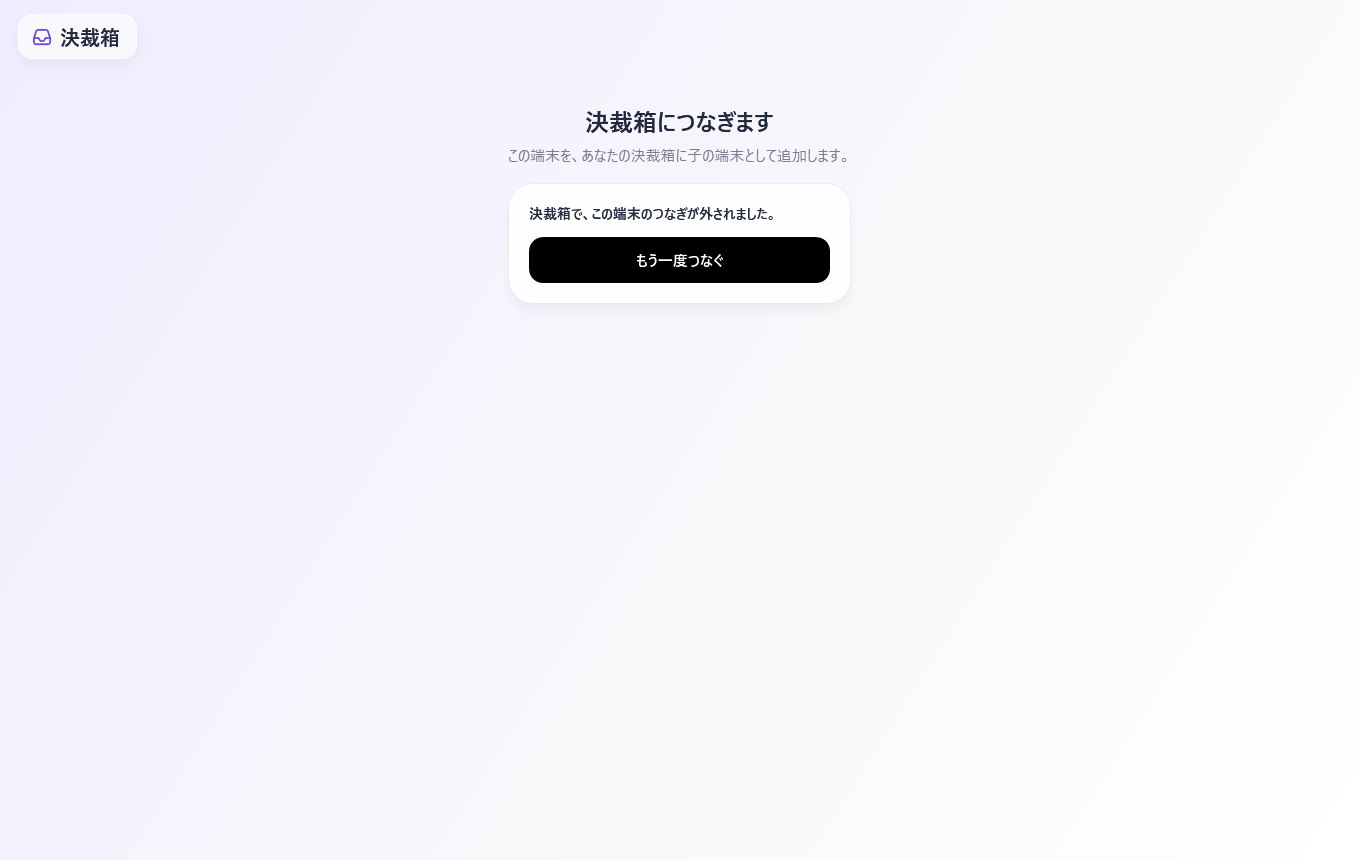
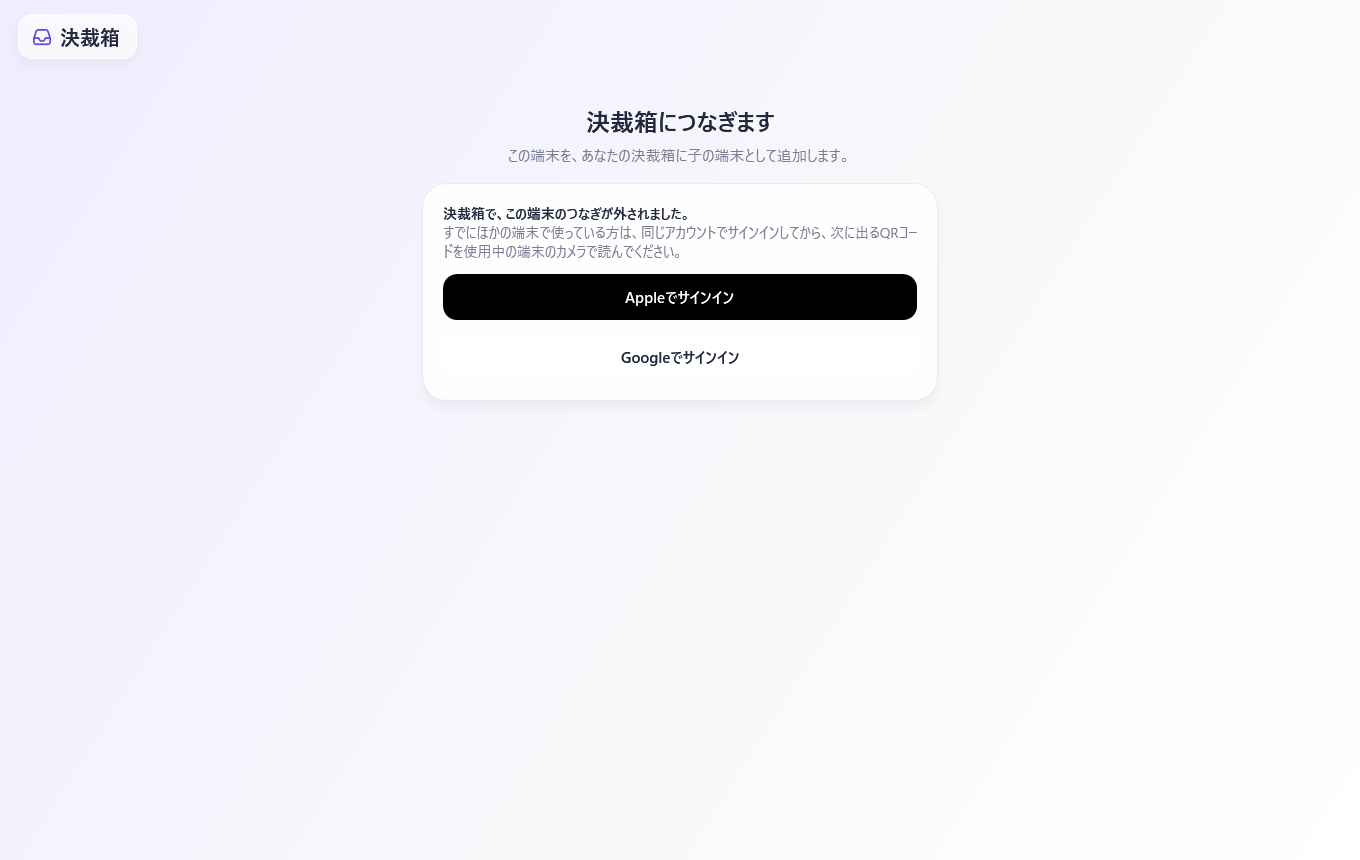
Child join: a device the parent removed starts clean (Apple/Google), per child-join.md #2555

Changed region(s): [[0.3088, 0.2419, 0.6794, 0.4233], [0.4324, 0.1209, 0.5559, 0.1512]]

diff --git a/windows/BellTeam.App/ChildJoin.cs b/windows/BellTeam.App/ChildJoin.cs
@@ -9,7 +9,7 @@ internal enum ChildJoinPhase { NotJoined, Waiting, Failed, Joined }
 
 /// <summary>
 /// The port of the 決裁箱 window's child join (child-join.md "The port"): the Approval Box component's joinState and its three calls, as the window needs them. The window never signs in or holds a credential itself.
-/// Join(provider) is requestJoin (the library signs in first when the child form keeps none; null = again, with the provider of the last try); CancelJoin and Leave are cancelJoin and leave.
+/// Join(provider) is requestJoin(provider) (apple | google; the library signs in on this device; null = 「もう一度つなぐ」 after a failure, with the provider of the last try, which the adapter keeps); CancelJoin and Leave are cancelJoin and leave.
 /// </summary>
 internal interface IChildJoin
 {
@@ -33,7 +33,7 @@ internal interface IChildJoin
 
 /// <summary>
 /// The one screen of a window that is not joined (child-join.md): the first-screen approval view's shape. NotJoined: title, lead, the first screen's sign-in (Apple, Google); signing in: its waiting line and やめる;
-/// Waiting: title, the QR, 「H:mm まで有効」, the QR text (LocalFormText.Qr), やめる; Failed / removed: the sentence and もう一度つなぐ. Never a parent's 「ほかの端末を追加する」, a purchase or a plan.
+/// Waiting: title, the QR, 「H:mm まで有効」, the QR text (LocalFormText.Qr), やめる; Failed: the sentence and もう一度つなぐ; removed by the parent (notJoined(removed), a clean start): its sentence above the not-joined screen's Apple and Google buttons. Never a parent's 「ほかの端末を追加する」, a purchase or a plan.
 /// </summary>
 internal sealed class ChildJoinView : StackPanel
 {
@@ -51,7 +51,7 @@ internal sealed class ChildJoinView : StackPanel
             card.Children.Add(Text(SignInText.Waiting, 15, Ink, FontWeights.SemiBold));
             card.Children.Add(FirstScreenView.Button(ChildJoinText.LeaveNo, Fill, Ink, join.CancelJoin, "child-join-cancel"));
         }
-        else if (join.Phase == ChildJoinPhase.Failed || join.Removed)
+        else if (join.Phase == ChildJoinPhase.Failed)
             card.Children.Add(FirstScreenView.Button(ChildJoinText.ConnectAgain, System.Windows.Media.Brushes.Black, System.Windows.Media.Brushes.White, () => _ = join.JoinAsync(null), "child-join-again"));
         else
         {

diff --git a/windows/BellTeam.Tests/ApprovalsWindowTests.cs b/windows/BellTeam.Tests/ApprovalsWindowTests.cs
@@ -88,10 +88,11 @@ public sealed class ApprovalsWindowTests
     });
 
     [Fact]
-    public void ADeviceTheParentRemovedSaysSoAndOffersToConnectAgain() => RunSta(() =>
+    public void ADeviceTheParentRemovedSaysSoAboveTheNotJoinedScreenAndStartsClean() => RunSta(() =>
     {
         var join = new ApprovalsFixture.Join { Removed = true }; using var rig = Open(join: join); Until(() => rig.Page.Settled);
-        Assert.Contains(ChildJoinText.Removed, Texts(rig.Window)); Press(FindId(rig.Window, "child-join-again")); Assert.Equal([null], join.Joins);
+        var texts = Texts(rig.Window); Assert.Contains(ChildJoinText.Removed, texts); Assert.Contains(LocalFormText.FirstSignIn, texts);   // a clean start: the removed sentence above the not-joined screen
+        Press(FindId(rig.Window, "child-join-apple")); Assert.Equal(["apple"], join.Joins);
     });
 
     [Fact]

diff --git a/docs/windows-architecture.md b/docs/windows-architecture.md
@@ -188,7 +188,7 @@ flowchart LR
 - サーバーへのログインは無い（a540、オーナー2026-11-23）：ホーム部品（`HomeConnect`・ホームのセッション一覧・サーバーのトークン）はWindowsから外した。サーバーにつなぐのは接続先のアドレスだけで、Cloudflare Access配下の接続先だけがWebログイン（`LoginView`・`AccessLoginView`）を使う。Coreの`LoginApi`・`LoginFlow`・`ISessionTokenStore`・`HomeSessions`はLinuxの流用元として残る（Windowsは呼ばない）。
 - 最初の画面・サインインの入口は次の1項のとおり（a540）：入口の専用画面（`SignInView`）は無く、アカウントのカードがその役を持つ。
 - **最初の画面（first-screen-parent-approval。オーナー2026-11-24：親に承認してもらう手順を、最初の画面でわかりやすく見せる。決裁箱0.2.2が手本）**：承認されていない端末（`AccountStore.Paid`が無い）は、`AccountGateView`が`FirstScreenView`を出す（[画面1](windows-first-screen.png)）。サインイン前：アプリ名「BellTeam」、1行の目的（`LocalFormText.Purpose`）、オーナーの文`LocalFormText.FirstSignIn`、「Appleでサインイン」（黒、先）と「Googleでサインイン」（既存の`SignInText`）。押すとブラウザーでサインインし（待つ間は「ブラウザーでサインインしています…」と「やめる」だけ。タブを閉じてもアプリには何も届かないため）、サインインできたら[画面2](windows-first-screen-approval.png)：「使っている端末の承認を待っています」（`WaitingTitle`）、QR（ライブラリのJoinリンク、280px）、「H:mm まで有効」（`ValidUntil`、回るスピナー）、オーナーのQRの文`LocalFormText.Qr`、Windowsだけのファイアウォールの案内、「やめる」。AppleのサインインはQRの前に1回だけ（決裁箱の「2回出る」は避ける）。購入はWindowsに無く、「この端末を親にする」も出さない（鍵穴なし）。承認され期間が分かったら、従来のカード（サーバーにつなぐ）に切り替わる。設定の「利用と課金」は従来のまま。
-- 決裁箱の窓の子参加（abx-child-join、[child-join.md](architecture/modules/approval-box-extension/child-join.md)、Ownerの裁定 2026-11-24）：BellTeamの決裁箱の窓は、OwnerのApproval Boxの**子の端末**としてつながる（iPad・Macと同じ。親にはならず、他の端末を足さず、購入しない）。窓はポート`IChildJoin`（Approval Box部品の`joinState`と`requestJoin`・`cancelJoin`・`leave`＝`JoinAsync(provider)`・`CancelJoin`・`LeaveAsync`）だけを見て、`signIn/signOut`は持たない。`ApprovalsHub.Join`があるとき、窓はつながるまで`ChildJoinView`（1つの画面）を出し、一覧の列は出さない：`NotJoined`＝題「決裁箱につなぎます」・「この端末を、あなたの決裁箱に子の端末として追加します。」・最初の画面と同じサインイン（`LocalFormText.FirstSignIn`、Apple・Google）、サインイン中＝`SignInText.Waiting`とやめる、`Waiting`＝題「決裁箱の承認を待っています」・QR（ライブラリの参加リンク、ラベル「決裁箱につなぐQRコード」）・「H:mm まで有効」・QRの文（`LocalFormText.Qr`）・やめる、`Failed`＝「つなげませんでした。もう一度つないでください。」（`other_account`だけ自分の文。コードは出さない）・もう一度つなぐ、親に外された（`Removed`）＝「決裁箱で、この端末のつなぎが外されました。」・もう一度つなぐ。つながったあと（`Joined`）は通常の決裁箱で、「工程表との連携」の窓に1行目「決裁箱につながっています」と「つなぎを外す」（外す／やめる）、2行目に「AIの許可待ちを決裁箱へ送る」。部品の`joining`・`reconnecting`・`notEntitled`・`updateRequired`は一覧の上の1枚の帯（つないでいます…／つなぎ直しています＋今すぐ試す／Approval Boxの契約が必要です…＋確かめ直す／この版では、決裁箱をまだ使えません…＋今すぐ試す）。言葉はCoreの`ChildJoinText`。部品（Indivilia、.NET）が出るまで`ApprovalsHub.Join`は未設定で、窓は従来のサインイン（`ApprovalBoxAccount`、`lbq1`のハンドオフ）のまま。部品を入れる時に、その入口と`PassProvider`を外す。出荷はNayutaの「Approval Boxは完成」のあとに1つの版で行う。
+- 決裁箱の窓の子参加（abx-child-join、[child-join.md](architecture/modules/approval-box-extension/child-join.md)、Ownerの裁定 2026-11-24）：BellTeamの決裁箱の窓は、OwnerのApproval Boxの**子の端末**としてつながる（iPad・Macと同じ。親にはならず、他の端末を足さず、購入しない）。窓はポート`IChildJoin`（Approval Box部品の`joinState`と`requestJoin`・`cancelJoin`・`leave`＝`JoinAsync(provider)`・`CancelJoin`・`LeaveAsync`）だけを見て、`signIn/signOut`は持たない。`ApprovalsHub.Join`があるとき、窓はつながるまで`ChildJoinView`（1つの画面）を出し、一覧の列は出さない：`NotJoined`＝題「決裁箱につなぎます」・「この端末を、あなたの決裁箱に子の端末として追加します。」・最初の画面と同じサインイン（`LocalFormText.FirstSignIn`、Apple・Google）、サインイン中＝`SignInText.Waiting`とやめる、`Waiting`＝題「決裁箱の承認を待っています」・QR（ライブラリの参加リンク、ラベル「決裁箱につなぐQRコード」）・「H:mm まで有効」・QRの文（`LocalFormText.Qr`）・やめる、`Failed`＝「つなげませんでした。もう一度つないでください。」（`other_account`だけ自分の文。コードは出さない）・もう一度つなぐ、親に外された（`notJoined(removed)`、サインインも鍵も消えた出直し）＝「決裁箱で、この端末のつなぎが外されました。」を未接続の画面の上に出し、操作はApple・Googleのボタン。サインイン中は`signingIn(provider)`（`requestJoin(provider)`は`apple`か`google`を取る）。つながったあと（`Joined`）は通常の決裁箱で、「工程表との連携」の窓に1行目「決裁箱につながっています」と「つなぎを外す」（外す／やめる）、2行目に「AIの許可待ちを決裁箱へ送る」。部品の`joining`・`reconnecting`・`notEntitled`・`updateRequired`は一覧の上の1枚の帯（つないでいます…／つなぎ直しています＋今すぐ試す／Approval Boxの契約が必要です…＋確かめ直す／この版では、決裁箱をまだ使えません…＋今すぐ試す）。言葉はCoreの`ChildJoinText`。部品（Indivilia、.NET）が出るまで`ApprovalsHub.Join`は未設定で、窓は従来のサインイン（`ApprovalBoxAccount`、`lbq1`のハンドオフ）のまま。部品を入れる時に、その入口と`PassProvider`を外す。出荷はNayutaの「Approval Boxは完成」のあとに1つの版で行う。
[1 lines of base64/hex data omitted]
 - 「アカウントを削除」（a485、App Reviewの要件。置き場と文の正本はラピの[account-deletion.md](architecture/modules/apple/account-deletion.md)）：設定の「利用と課金」の`AccountView`の最後に、区切り線の下の破壊的なボタン「アカウントを削除」を1つ出す（Workerの接続先がある時だけ。サインインしていなくても出す。最初の画面の`AccountGateView`には置かない）。押すと`SettingsWindow.AskDeleteAccount`が`ConfirmationWindow`（題・本文・「削除する」/「やめる」。文はCoreの`AccountDeletionText`で、サブスクの2文だけWindows向け：購入した先の購読の管理から解約）を出し、「削除する」で`MainWindow.DeleteAccountAsync`が次の順に行う：サーバーのセッション終了（`EndHomeSessionAsync`。通信を伴う唯一の手順）→決裁箱（`ApprovalBoxDevice.DeleteLocalDataAsync`＝2つ目のライブラリのsignOutのあと、端末の鍵・レジストリの写し・履歴・添付を厳密に消す）→`home.bin`の記録（`AccountStore.ForgetHome`）→通知の登録→Webログイン（`DesktopAccess`）→ライブラリの`SignOutAsync`（パス・K・印・端末一覧。0.18.9は端末のパスを消し、オフラインでも戻って`SignOutResult`（`Delivered`／`NotDelivered`）を返す。どちらも削除の失敗ではなく、結果は使わない。残る失敗は`pass_store_unavailable`だけで、`ReasonOf`が「処理できませんでした」にする）→保存した接続先→最初の画面（`StartupPhase.Account`）に戻し、結果の題と本文を1回だけ出す（`ShowResult`）。結果は全手順が例外なく戻った時だけ出す。失敗した手順があればそこで止まり、「アカウントの削除を終えられませんでした」と、消せなかった部分と3つの理由のどれか（ネットワークにつながっていません／ログインの運営に届きません／処理できませんでした。`MainWindow.ReasonOf`）、つながる場所でもう一度押すと続きから終えること、を出す（画面は動かさず、あとの手順は進めない。各手順は繰り返しても安全）。文はR2（ミントの読み、ラピ・ポリ確定）で、運営に残るのは止めたパスのランダムな番号と、ほかの端末をすべて止めた時のアカウントの番号と時刻だけで、どちらも最長14日。ほかの端末は止めない。
 - 実プロバイダー試験用のブラウザー（a523h、real-path-tests 1.26）：Webサインインは既定でシステムブラウザーを開く。環境変数`BELLTEAM_TEST_CHROME_PROFILE`がディレクトリを指す時だけ、`TestBrowser.Open`がそのディレクトリを`--user-data-dir`にした別のChromeで開く（オーナー自身のプロファイルに触れないため。Chromeが無ければサインインは失敗し、システムブラウザーへは戻らない）。呼び出しは`AccountView.SignInAsync`（BellTeam）と`ApprovalBoxAccount.SignInAsync`（Approval Boxの2つ目）の2か所。
